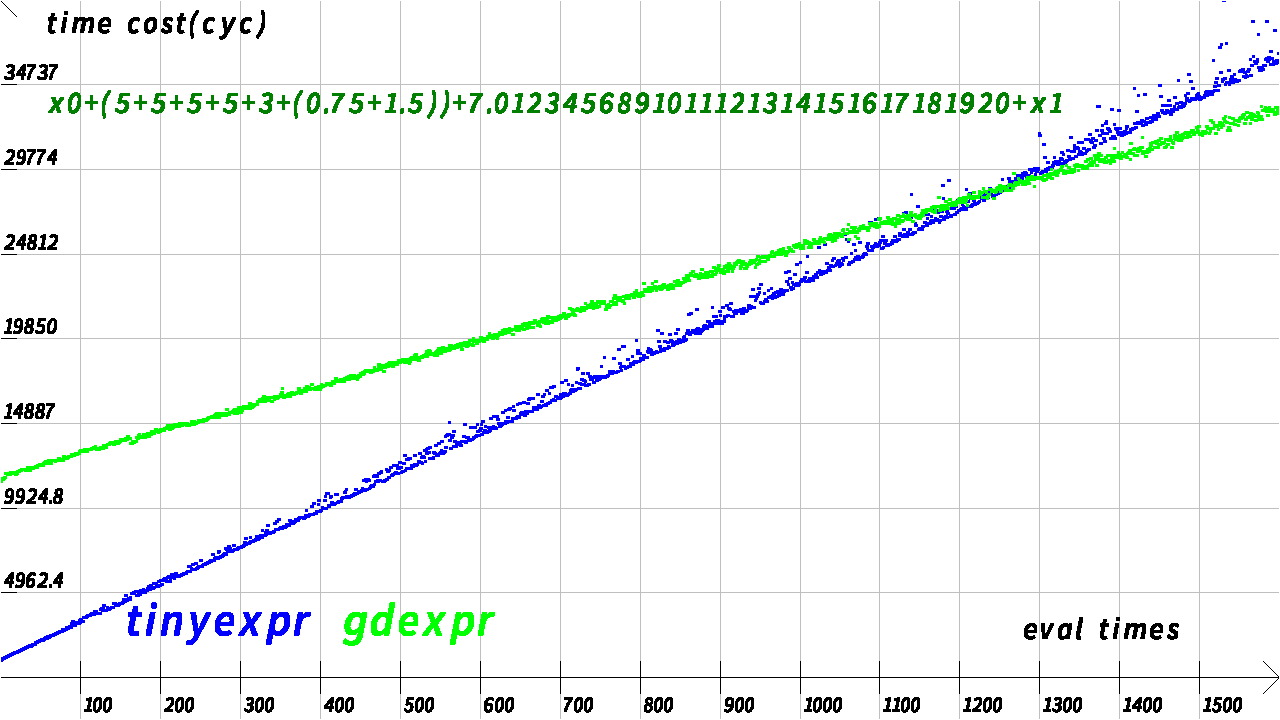
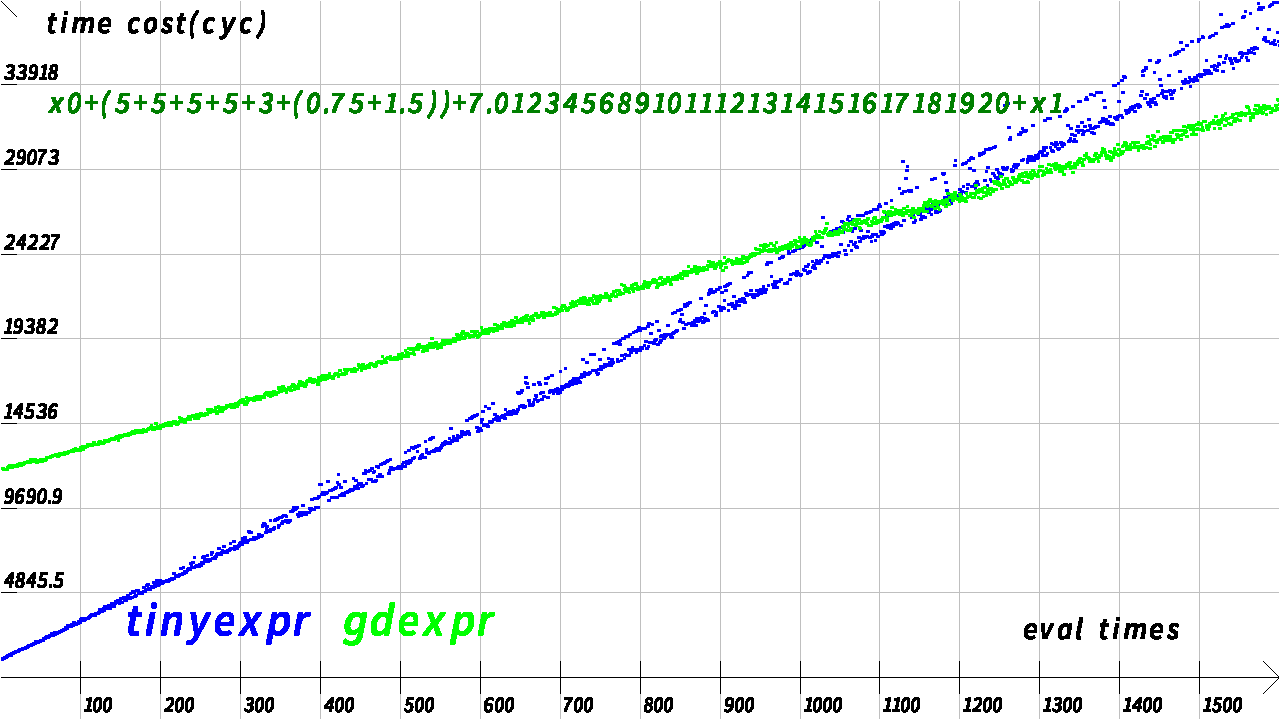
fixed the grid invisible

diff --git a/logo/project_structure.c b/logo/project_structure.c
@@ -26,7 +26,7 @@ int main(void){
 	struct graph gp[1];
 	intptr_t tofd;
 	assert(!init_graph(gp,1280 RESIZE,720 RESIZE,32,-RATIO,RATIO,-(RATIO*720/1080),(RATIO*720/1080)));
-	graph_fill(gp,0xbfffffff);
+	graph_fill(gp,0xefffffff);
 	graph_draw_box_pixel(gp,0xff00ff00,0,0,0,gp->width-1,gp->height-1);
 	//graph_draw_box_pixel(gp,0xff00ff00,0,20 RESIZE,540 RESIZE,660 RESIZE,680 RESIZE);
 	graph_draw_boxedtext(gp,0xff00cf00,0,"Graph Drawer",70 RESIZE,560 RESIZE);

diff --git a/fun/compare-curve.c b/fun/compare-curve.c
@@ -92,7 +92,7 @@ void draw_curve(double max_time){
 	int32_t l=0;
 	int32_t y0;
 	assert(!init_graph(gp,1280,720,32,-1,MAX_TIMES+0.5,-max_time/16,max_time+0.5));
-	graph_fill(gp,0xbfffffff);
+	graph_fill(gp,0xefffffff);
 	gp->connect=0;
 	graph_draw_grid(gp,0xffbfbfbf,0,MAX_TIMES/16,max_time/8);
 	graph_draw_axis(gp,0xff000000,0,MAX_TIMES/16,max_time/8,16);

diff --git a/logo/logo.c b/logo/logo.c
@@ -110,7 +110,7 @@ int main(void){
 	intptr_t tofd;
 	volatile double current;
 	assert(!init_graph(gp,1280 RESIZE,720 RESIZE,32,-RATIO,RATIO,-(RATIO*720/1080),(RATIO*720/1080)));
-	graph_fill(gp,0xbfffffff);
+	graph_fill(gp,0xefffffff);
 	gp->draw_value=0;
 	graph_draw_grid(gp,0xffbfbfbf,0,1.0,1.0);
 	graph_draw_axis(gp,0xff000000,0,1.0,1.0,8);
